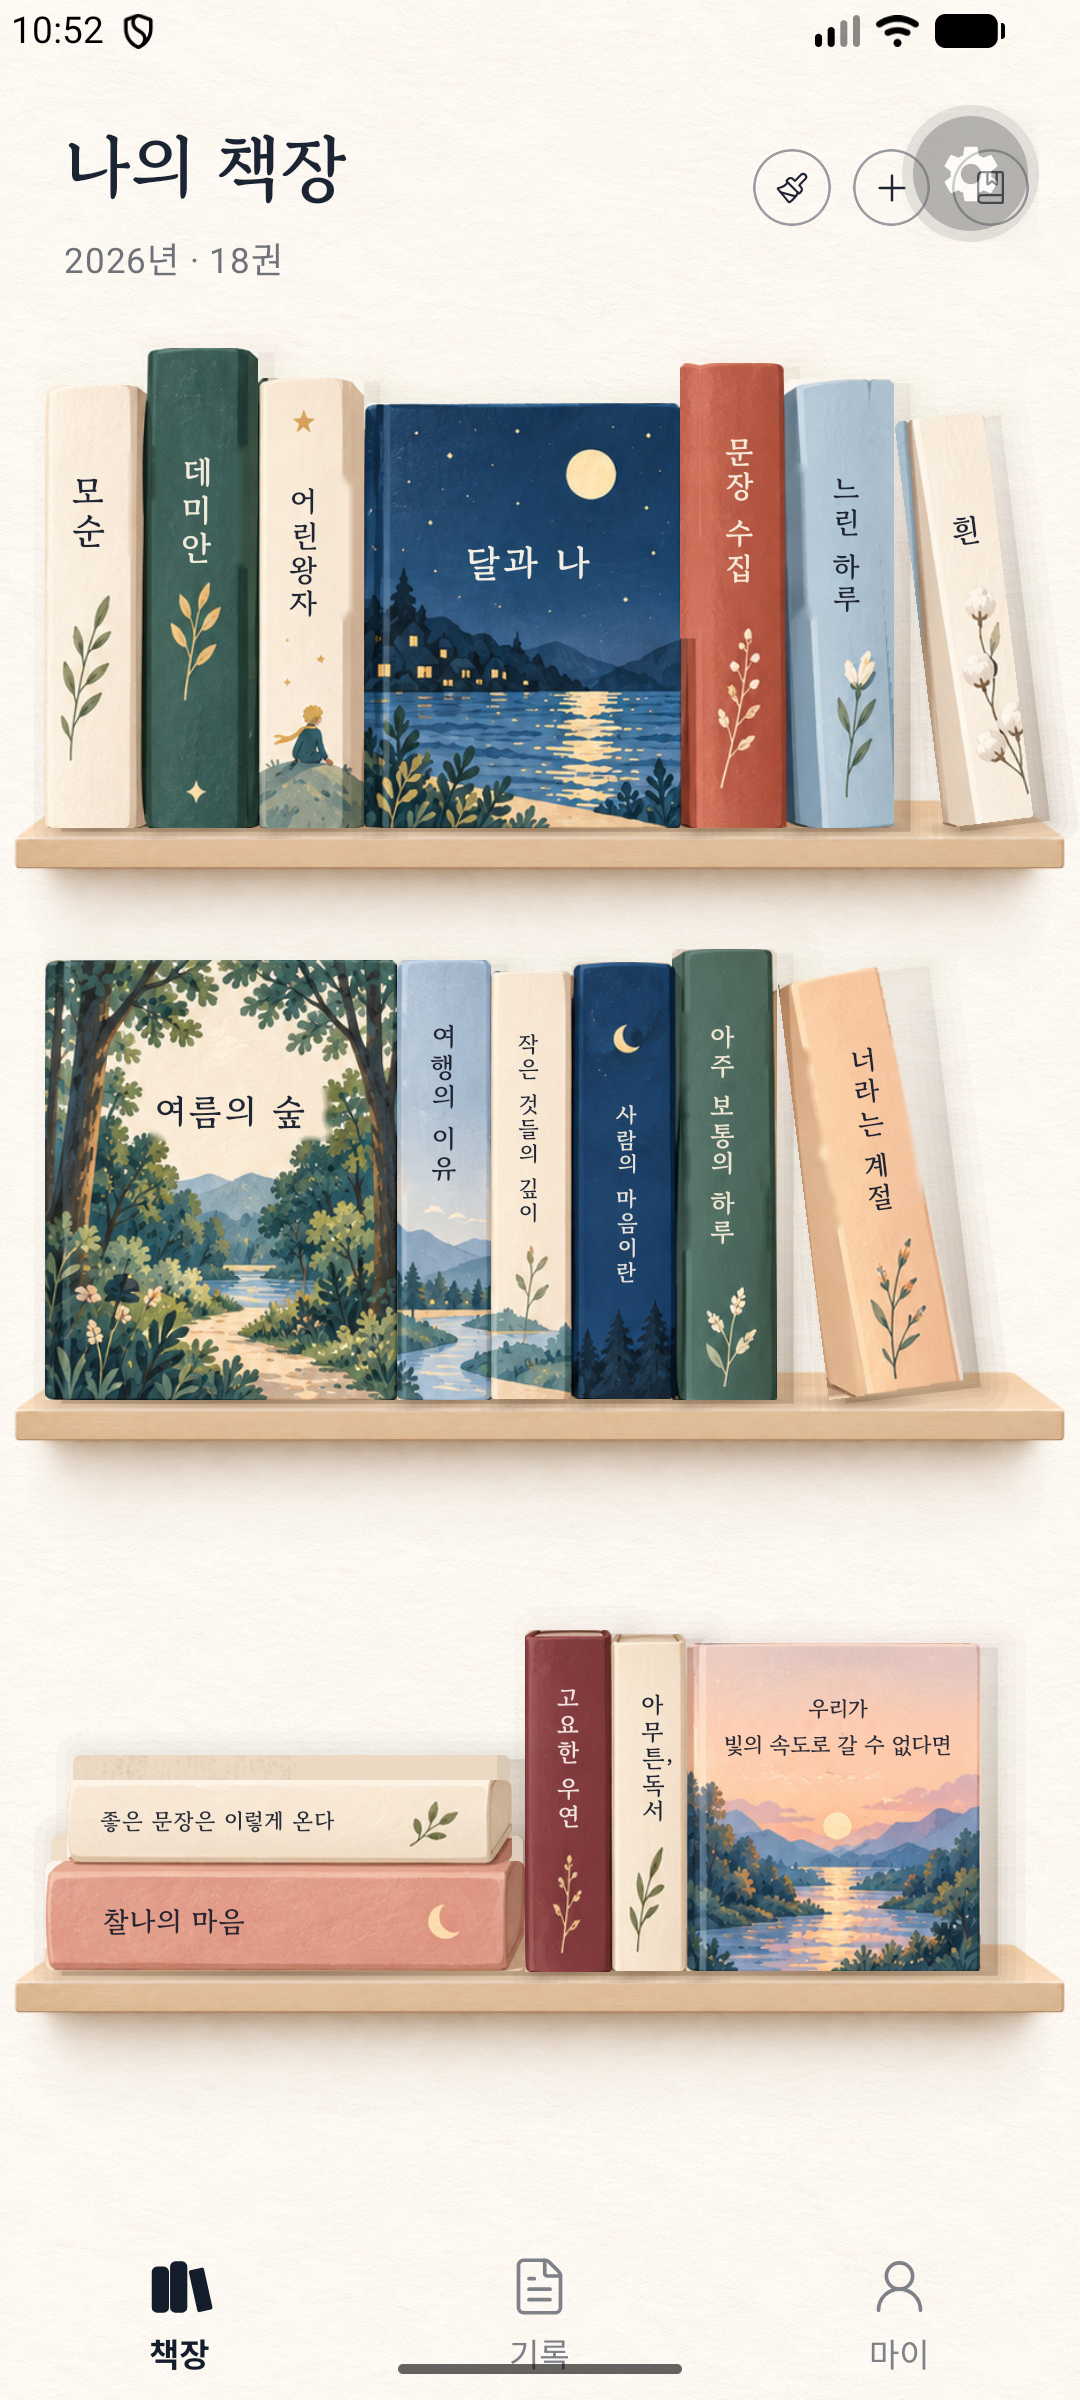
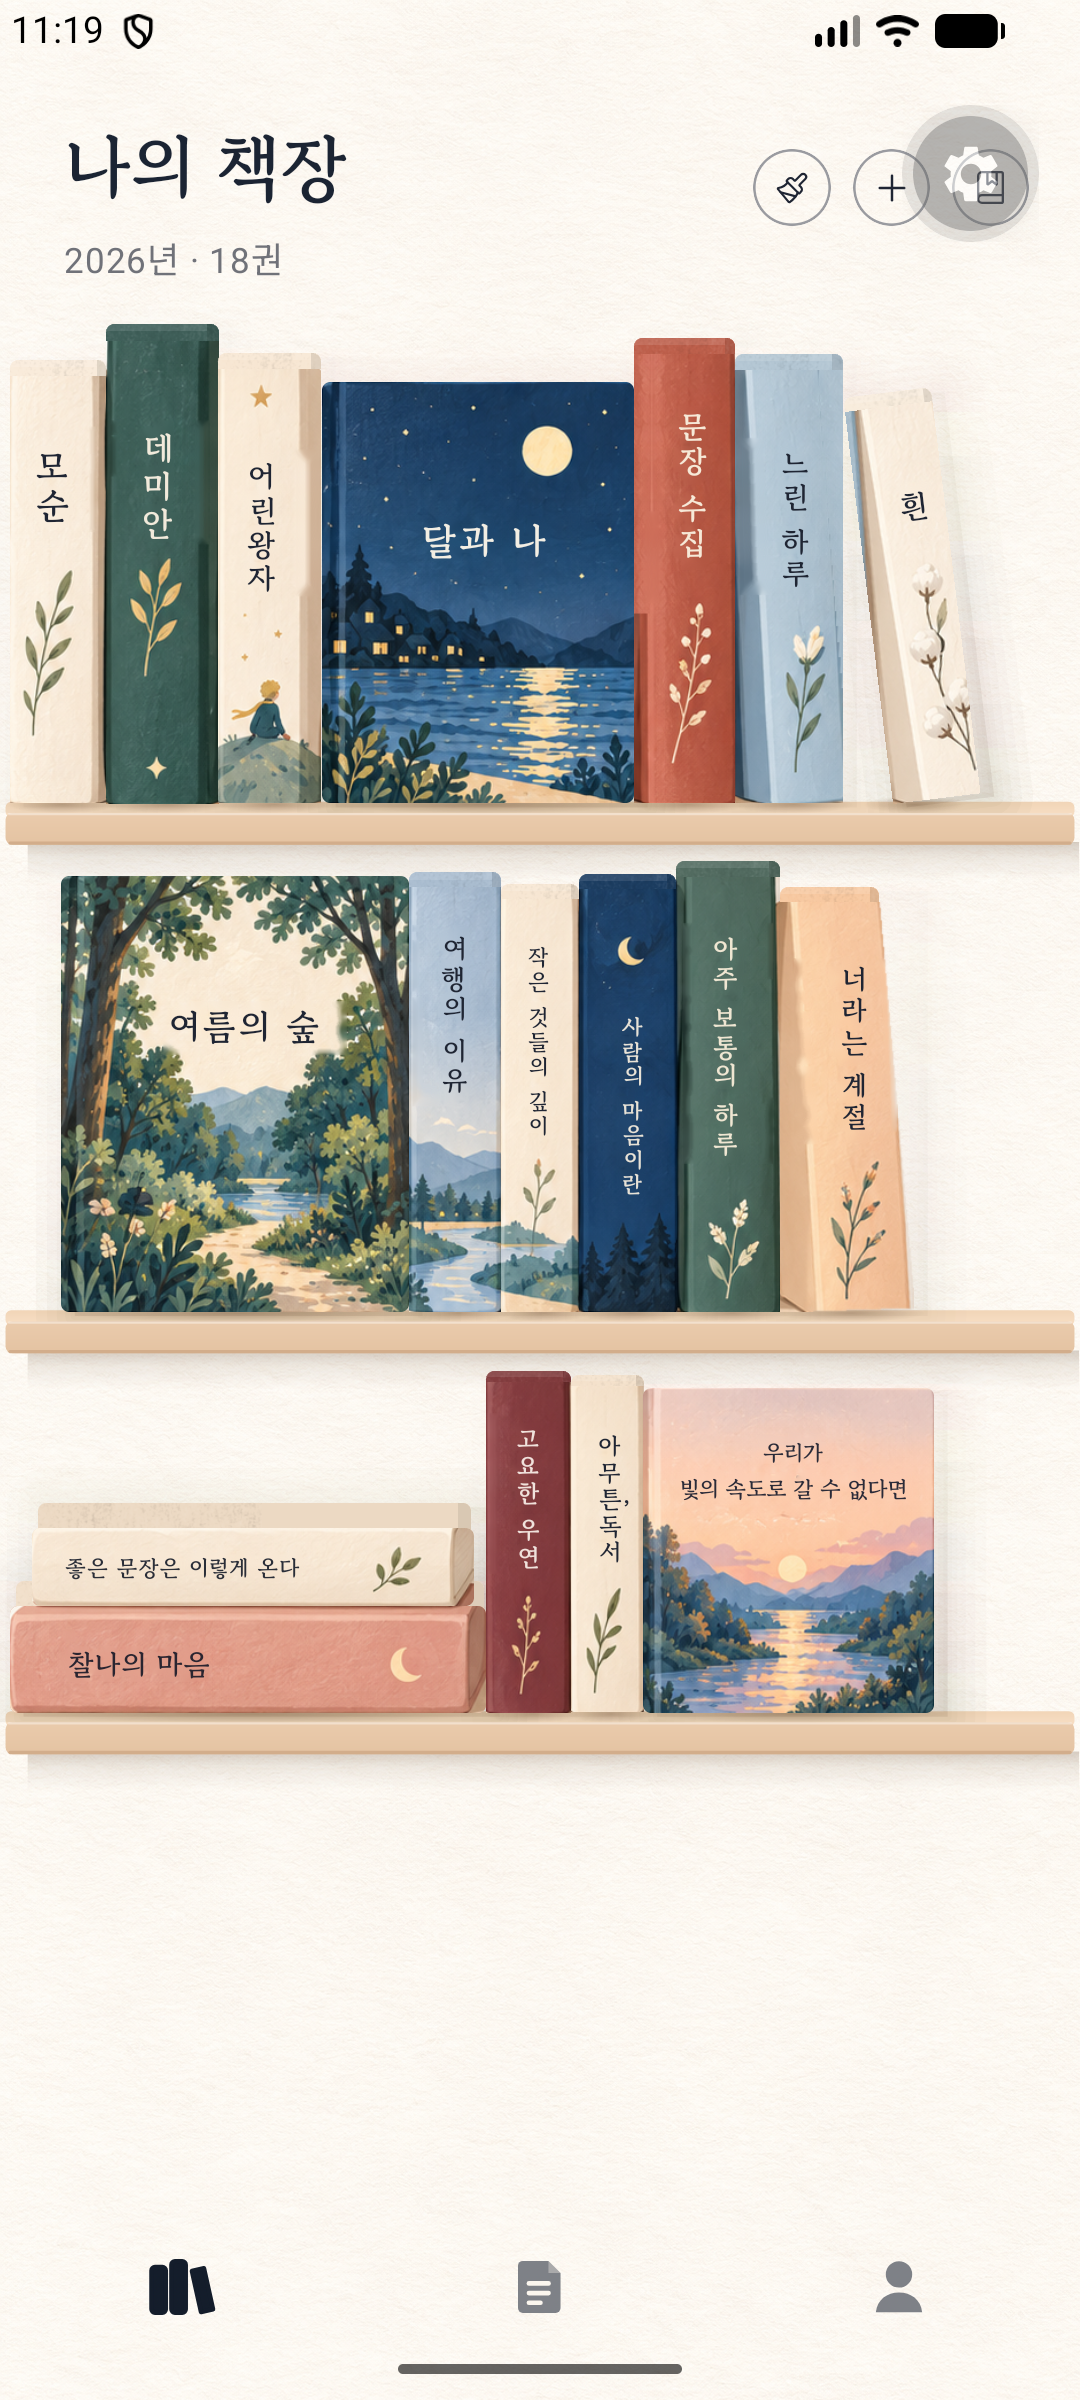
줄 높이 책에 맞춤, 시안 비율 선반, 그림자 정리

diff --git a/app/src/domain/geometry.ts b/app/src/domain/geometry.ts
@@ -4,35 +4,41 @@ import type { Book, BookPlacement, HeightClass, ThicknessClass, Tilt } from './t
 
 export const DESIGN_WIDTH = 390;
 
-// 선반 이미지(assets/bookshelf/shelf-single.png)는 원본 비율 그대로 SHELF_IMG_W 폭으로, 설계 폭 가운데에 놓는다.
-// 투명 여백은 화면 밖으로 나가도 되지만 보이는 판(앞턱) 양끝은 화면 안에 들어온다.
+// 선반 표현 방식.
+// 'drawn': 시안(정면 시점, 얇은 윗면, 직각 끝, 짧은 그림자)을 잰 치수로 코드가 그린다. 현재 기본.
+// 'asset': assets/bookshelf/shelf-single.png. 받은 PNG가 위에서 내려다본 시점이라 시안과 맞지 않아 보류(시안 비율 PNG를 받으면 켠다).
+export const SHELF_STYLE = 'drawn' as 'drawn' | 'asset';
+
+// 선반 이미지(asset)는 원본 비율 그대로 SHELF_IMG_W 폭으로 설계 폭 가운데에 놓는다.
 export const SHELF_IMG_W = 400;
 export const SHELF_IMG_H = (SHELF_IMG_W * SHELF_ASSET.height) / SHELF_ASSET.width;
 export const SHELF_IMG_X = (DESIGN_WIDTH - SHELF_IMG_W) / 2;
-// 측정값(정규화)을 설계 단위로
-const CONTACT_DU = SHELF_ASSET.contactY * SHELF_IMG_H; // 이미지 위쪽 ~ 책 밑면 기준선
-const LIP_DU = (SHELF_ASSET.frontTopY - SHELF_ASSET.contactY) * SHELF_IMG_H; // 기준선 ~ 앞턱 윗모서리
-const BELOW_DU = (SHELF_ASSET.frontBottomY - SHELF_ASSET.contactY) * SHELF_IMG_H; // 기준선 ~ 앞턱 아래
-const USABLE_LEFT = SHELF_IMG_X + SHELF_ASSET.usableLeft * SHELF_IMG_W;
-const USABLE_W = (SHELF_ASSET.usableRight - SHELF_ASSET.usableLeft) * SHELF_IMG_W;
+
+// 시안(941px → 390DU)에서 잰 선반 치수
+const PLANK_TOP = 3.5; // 윗면
+const PLANK_FRONT = 11.5; // 앞면
+
+const asset = SHELF_STYLE === 'asset';
+const USABLE_LEFT = asset ? SHELF_IMG_X + SHELF_ASSET.usableLeft * SHELF_IMG_W : 2;
+const USABLE_W = asset ? (SHELF_ASSET.usableRight - SHELF_ASSET.usableLeft) * SHELF_IMG_W : DESIGN_WIDTH - 4;
 
 export const SHELF = {
-  sideMargin: USABLE_LEFT, // 장면 x=0(선반 사용 범위 왼쪽 끝)의 화면 설계 좌표
-  innerLeft: 1.5, // 사용 범위 왼쪽 끝 ~ 첫 책
-  innerRight: 1.5,
+  sideMargin: USABLE_LEFT, // 장면 x=0의 화면 설계 좌표(drawn: 선반 판 왼쪽 끝)
+  innerLeft: asset ? 1.5 : 20, // 시안: 첫 책이 판 끝에서 약 20DU 안쪽
+  innerRight: asset ? 1.5 : 3,
   gap: 0, // 책 사이 기본 간격(시안: 서로 맞닿음)
   clearHeight: 178, // 장면 좌표의 바닥(y) 값
-  // 줄 간격(모든 줄 공통): 가장 큰 책·쌓임(≈175) + 갈피 돌출(7) + 위 여백(6)
-  rowClear: 188,
-  rowGap: 4, // 앞턱 아래 ~ 다음 줄 위 여백
-  contact: CONTACT_DU,
-  lip: LIP_DU,
-  below: BELOW_DU,
-  // 호환용(빈 선반 최소 높이 등)
-  minClear: 110,
+  // 줄 높이는 시안처럼 줄마다 그 줄에서 가장 큰 책(갈피 포함)에 맞춘다
+  rowTopPad: 6, // 가장 큰 책 위 여백
+  minClear: 110, // 빈 선반
+  rowGap: 0, // 앞턱 아래 ~ 다음 줄
+  plankTop: PLANK_TOP,
+  plankFront: PLANK_FRONT,
+  contact: asset ? SHELF_ASSET.contactY * SHELF_IMG_H : 0,
+  lip: asset ? (SHELF_ASSET.frontTopY - SHELF_ASSET.contactY) * SHELF_IMG_H : PLANK_TOP, // 바닥선 ~ 앞턱 윗모서리
+  below: asset ? (SHELF_ASSET.frontBottomY - SHELF_ASSET.contactY) * SHELF_IMG_H : PLANK_TOP + PLANK_FRONT, // 바닥선 ~ 앞턱 아래
 };
 
-export const ROW_PITCH = SHELF.rowClear + BELOW_DU + SHELF.rowGap;
 export const SHELF_USABLE_WIDTH = USABLE_W - SHELF.innerLeft - SHELF.innerRight;
 
 export const BOOK_HEIGHT: Record<HeightClass, number> = { short: 124, medium: 158, tall: 170 };

diff --git a/app/src/ui/shelf/metrics.ts b/app/src/ui/shelf/metrics.ts
@@ -1,12 +1,12 @@
 // 화면 폭 → 설계 단위 스케일과 선반 줄 위치.
 // 저장은 순서·그룹 기준이라 폭이 바뀌어도 배치를 다시 계산하지 않고 균일하게 확대·축소한다.
 // 정책: 태블릿 등 넓은 화면은 520px 폭에서 멈추고 가운데 정렬, 좁은 화면(<320px)은 그대로 축소한다(데이터는 건드리지 않음).
-// 줄 간격은 모든 줄 공통(ROW_PITCH): 가장 큰 책·쌓임, 갈피 돌출, 위 여백, 선반 두께를 고려한 디자인 값.
-// 선반 이미지와 책은 같은 줄 좌표계(같은 스케일·스크롤)에 놓인다.
+// 줄 높이는 시안처럼 그 줄에서 가장 큰 책(갈피 포함)에 맞춘다. 책은 좌우로만 끌어 옮기므로 드래그 중 줄 높이가 출렁이지 않는다.
+// 선반과 책은 같은 줄 좌표계(같은 스케일·스크롤)에 놓인다.
 import { useWindowDimensions } from 'react-native';
 
-import { DESIGN_WIDTH, ROW_PITCH, SHELF } from '@/domain/geometry';
-import { sortedShelves, type BookMap } from '@/domain/layout-engine';
+import { DESIGN_WIDTH, SHELF } from '@/domain/geometry';
+import { itemHeight, shelfItems, sortedShelves, type BookMap } from '@/domain/layout-engine';
 import type { Point } from '@/domain/shelf-scene';
 import type { ShelfLayout } from '@/domain/types';
 
@@ -33,13 +33,27 @@ export function useShelfMetrics() {
   return makeMetrics(width);
 }
 
-export function computeRows(layout: ShelfLayout, _books: BookMap, scale: number): RowGeom[] {
-  return sortedShelves(layout).map((s, i) => ({
-    shelfId: s.id,
-    top: CONTENT_TOP + i * ROW_PITCH * scale,
-    clear: SHELF.rowClear,
-    height: ROW_PITCH * scale,
-  }));
+export function rowClear(layout: ShelfLayout, books: BookMap, shelfId: string) {
+  const items = shelfItems(layout, shelfId);
+  // 갈피가 있는 책은 그만큼 위로 돌출된다
+  const tallest = Math.max(
+    0,
+    ...items.map((it) => itemHeight(it, layout, books) + (it.bookIds.some((id) => books[id]?.art.ribbon) ? RIBBON_OUT : 0)),
+  );
+  return Math.max(SHELF.minClear, tallest) + SHELF.rowTopPad;
+}
+
+export const RIBBON_OUT = 7;
+
+export function computeRows(layout: ShelfLayout, books: BookMap, scale: number): RowGeom[] {
+  let top = CONTENT_TOP;
+  return sortedShelves(layout).map((s) => {
+    const clear = rowClear(layout, books, s.id);
+    const height = (clear + SHELF.below + SHELF.rowGap) * scale;
+    const row = { shelfId: s.id, top, clear, height };
+    top += height;
+    return row;
+  });
 }
 
 // 장면 좌표(설계 단위, 바닥 = FLOOR) ↔ 콘텐츠 px

diff --git a/app/src/ui/shelf/Plank.tsx b/app/src/ui/shelf/Plank.tsx
@@ -1,0 +1,40 @@
+// 코드로 그리는 선반 판. 시안(정면 시점)에서 잰 치수: 윗면 3.5DU, 앞면 11.5DU, 직각 끝, 판 바로 아래 짧은 그림자.
+// floorY는 책 밑면이 닿는 선(윗면 뒤쪽). 너비·높이는 px.
+import { memo, useId } from 'react';
+import Svg, { Defs, LinearGradient, Rect, Stop } from 'react-native-svg';
+
+import { SHELF } from '@/domain/geometry';
+import { colors, shadow } from '@/ui/theme';
+
+type Props = { left: number; width: number; floorY: number; scale: number; height: number; canvasWidth: number };
+
+export const Plank = memo(function Plank({ left, width: w, floorY, scale: s, height, canvasWidth }: Props) {
+  const id = useId().replace(/[^a-zA-Z0-9]/g, '');
+  const pt = SHELF.plankTop * s;
+  const pf = SHELF.plankFront * s;
+  return (
+    <Svg style={{ position: 'absolute', left: 0, top: 0 }} width={canvasWidth} height={height} pointerEvents="none">
+      <Defs>
+        <LinearGradient id={`${id}under`} x1="0" y1="0" x2="0" y2="1">
+          <Stop offset="0" stopColor={colors.shadow} stopOpacity={shadow.plank.opacity} />
+          <Stop offset="0.4" stopColor={colors.shadow} stopOpacity={shadow.plank.opacity * 0.4} />
+          <Stop offset="1" stopColor={colors.shadow} stopOpacity={0} />
+        </LinearGradient>
+        <LinearGradient id={`${id}front`} x1="0" y1="0" x2="0" y2="1">
+          <Stop offset="0" stopColor={colors.plankFront} />
+          <Stop offset="1" stopColor={colors.plankFrontLow} />
+        </LinearGradient>
+        <LinearGradient id={`${id}top`} x1="0" y1="0" x2="0" y2="1">
+          <Stop offset="0" stopColor={colors.plankTopBack} />
+          <Stop offset="1" stopColor={colors.plankTop} />
+        </LinearGradient>
+      </Defs>
+      {/* 판 바로 아래 짧은 그림자(빛이 왼쪽 위라 오른쪽으로 조금 밀림) */}
+      <Rect x={left + 8 * s} y={floorY + pt + pf - 1 * s} width={w - 5 * s} height={shadow.plank.height * s} fill={`url(#${id}under)`} />
+      <Rect x={left} y={floorY - 0.5 * s} width={w} height={pt + 2 * s} rx={2 * s} fill={`url(#${id}top)`} />
+      <Rect x={left} y={floorY + pt} width={w} height={pf} rx={2.5 * s} fill={`url(#${id}front)`} />
+      <Rect x={left + 1 * s} y={floorY + pt} width={w - 2 * s} height={0.8 * s} fill="#FFFFFF" opacity={0.4} />
+      <Rect x={left + 1 * s} y={floorY + pt + pf - 1.2 * s} width={w - 2 * s} height={1.2 * s} rx={0.6 * s} fill={colors.plankEdge} opacity={0.9} />
+    </Svg>
+  );
+});

diff --git a/app/src/features/home/DrawerSheet.tsx b/app/src/features/home/DrawerSheet.tsx
@@ -5,11 +5,12 @@ import { Image, Modal, Pressable, ScrollView, StyleSheet, Text, useWindowDimensi
 const SHELF_PNG = require('../../../assets/bookshelf/shelf-single.png');
 import { useSafeAreaInsets } from 'react-native-safe-area-context';
 
-import { bookHeight, bookThickness } from '@/domain/geometry';
+import { bookHeight, bookThickness, SHELF, SHELF_STYLE } from '@/domain/geometry';
 import { SHELF_ASSET } from '@/domain/shelf-asset.generated';
 import type { Book } from '@/domain/types';
 import { ko } from '@/i18n/ko';
 import { BookRenderer } from '@/ui/book/BookRenderer';
+import { Plank } from '@/ui/shelf/Plank';
 import { colors, typeScale } from '@/ui/theme';
 
 type Props = {
@@ -58,13 +59,17 @@ export function DrawerSheet({ visible, books, scale, onPick, onClose }: Props) {
         <ScrollView contentContainerStyle={{ paddingTop: 8, paddingBottom: 8 }} showsVerticalScrollIndicator={false}>
           {books.length
             ? rows.map((row, i) => (
-                <View key={i} style={[styles.rowWrap, { height: rowH(row) + imgH * (SHELF_ASSET.frontBottomY - SHELF_ASSET.contactY) + 6 }]}>
+                <View key={i} style={[styles.rowWrap, { height: rowH(row) + SHELF.below * s + 8 }]}>
                   {/* 홈과 같은 선반 이미지. 책 밑면을 측정한 기준선(contactY)에 맞춘다 */}
-                  <Image
-                    source={SHELF_PNG}
-                    style={{ position: 'absolute', left: -imgW * SHELF_ASSET.usableLeft + 2, top: rowH(row) - imgH * SHELF_ASSET.contactY, width: imgW, height: imgH }}
-                    resizeMode="stretch"
-                  />
+                  {SHELF_STYLE === 'asset' ? (
+                    <Image
+                      source={SHELF_PNG}
+                      style={{ position: 'absolute', left: -imgW * SHELF_ASSET.usableLeft + 2, top: rowH(row) - imgH * SHELF_ASSET.contactY, width: imgW, height: imgH }}
+                      resizeMode="stretch"
+                    />
+                  ) : (
+                    <Plank left={0} width={rowWidth + 16} floorY={rowH(row)} scale={s} height={rowH(row) + 40 * s} canvasWidth={rowWidth + 16} />
+                  )}
                   <View style={styles.row}>
                     {row.map((b) => (
                       <Pressable

diff --git a/app/src/ui/shelf/ShelfRow.tsx b/app/src/ui/shelf/ShelfRow.tsx
@@ -4,11 +4,12 @@ import { Image, Pressable, StyleSheet, Text, View } from 'react-native';
 import Animated, { useAnimatedStyle, useSharedValue, withTiming } from 'react-native-reanimated';
 import Svg, { Defs, LinearGradient, Rect, Stop } from 'react-native-svg';
 
-import { DESIGN_WIDTH, SHELF, SHELF_IMG_H, SHELF_IMG_W, SHELF_IMG_X } from '@/domain/geometry';
+import { DESIGN_WIDTH, SHELF, SHELF_IMG_H, SHELF_IMG_W, SHELF_IMG_X, SHELF_STYLE } from '@/domain/geometry';
 import type { BookFrame } from '@/domain/shelf-scene';
 import type { Book } from '@/domain/types';
 import { ko } from '@/i18n/ko';
 import { BookRenderer } from '@/ui/book/BookRenderer';
+import { Plank } from '@/ui/shelf/Plank';
 import { ShelfShadows } from '@/ui/shelf/ShelfShadows';
 import { colors, fonts, motion, shadow } from '@/ui/theme';
 
@@ -108,7 +109,11 @@ export const ShelfRow = memo(function ShelfRow(p: Props) {
   const s = p.scale;
   return (
     <View style={{ height: p.height, width: DESIGN_WIDTH * s, marginLeft: p.originX }}>
-      <ShelfImage scale={s} clear={p.clear} />
+      {SHELF_STYLE === 'asset' ? (
+        <ShelfImage scale={s} clear={p.clear} />
+      ) : (
+        <Plank left={SHELF.sideMargin * s} width={(DESIGN_WIDTH - SHELF.sideMargin * 2) * s} floorY={p.clear * s} scale={s} height={p.height + 20 * s} canvasWidth={DESIGN_WIDTH * s} />
+      )}
       <ShelfShadows frames={p.frames} scale={s} hiddenId={p.placeholderId} height={p.height} clear={p.clear} />
       {p.frames.map((f) => (
         <BookSlot

diff --git a/app/src/ui/theme.ts b/app/src/ui/theme.ts
@@ -46,9 +46,9 @@ export const typeScale = {
 // 그림자 토큰. 빛은 화면 좌상단, 외부 그림자는 화면 좌표 기준 오른쪽 아래.
 export const shadow = {
   contact: { opacity: 0.34, height: 3.2, spread: 2.5 }, // 선반에 닿는 좁은 그림자
-  cast: { dx: 5, dy: 1.5, opacity: 0.22, blurSteps: [28, 20, 13, 7, 3] }, // 뒤 벽에 떨어지는 넓고 흐린 그림자(바닥 쪽 최대)
+  cast: { dx: 5, dy: 1.5, opacity: 0.2, blurSteps: [28, 20, 13, 7, 3] }, // 뒤 벽에 떨어지는 넓고 흐린 그림자(바닥 쪽 최대)
   lifted: { dx: 12, dy: 14, opacity: 0.16, scale: 1.06 }, // 드래그 중 들린 느낌
-  plank: { opacity: 0.3, height: 20 }, // 선반 판 아래 벽 그림자
+  plank: { opacity: 0.24, height: 14 }, // 선반 판 아래 짧은 그림자(시안 약 15DU)
 };
 
 export const motion = {

diff --git a/app/src/ui/shelf/ShelfShadows.tsx b/app/src/ui/shelf/ShelfShadows.tsx
@@ -51,8 +51,10 @@ export const ShelfShadows = memo(function ShelfShadows({ frames, scale: s, hidde
       <G clipPath={`url(#${id}clip)`}>
         {visible.map((f) => {
           const pts = f.poly.map((p) => `${X(p.x + dx)},${Y(p.y + dy)}`).join(' ');
+          // 시안: 기울인 책·누운 책·표지 책 옆에만 그림자가 눈에 띄고, 나란히 선 책 사이는 거의 없다
+          const strong = f.tilt !== 0 || f.pose !== 'spine';
           return (
-            <G key={f.bookId}>
+            <G key={f.bookId} opacity={strong ? 1 : 0.4}>
               {blurSteps.map((w, i) => (
                 <Polygon key={i} points={pts} fill="none" stroke={`url(#${id}cast)`} strokeOpacity={1 / (blurSteps.length + 2)} strokeWidth={w * s} strokeLinejoin="round" />
               ))}

diff --git a/app/src/domain/__tests__/layout-engine.test.ts b/app/src/domain/__tests__/layout-engine.test.ts
@@ -103,7 +103,7 @@ describe('이동', () => {
     expect(moveBy(SAMPLE_LAYOUT, books, 'b01', -1)).toEqual({ ok: false, reason: 'no-change' });
     l = ok(moveToShelf(roomy(), books, 'b09', 'shelf-4'));
     expect(shelfItems(l, 'shelf-4').at(-1)!.key).toBe('b09');
-    expect(moveToShelf(SAMPLE_LAYOUT, books, 'b09', 'shelf-3')).toEqual({ ok: false, reason: 'no-space' });
+    expect(moveToShelf(SAMPLE_LAYOUT, books, 'b02', 'shelf-3')).toEqual({ ok: false, reason: 'no-space' });
   });
 });
 
